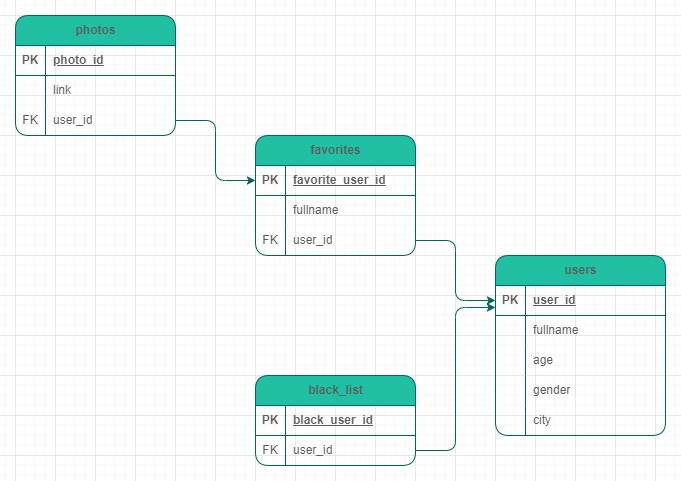
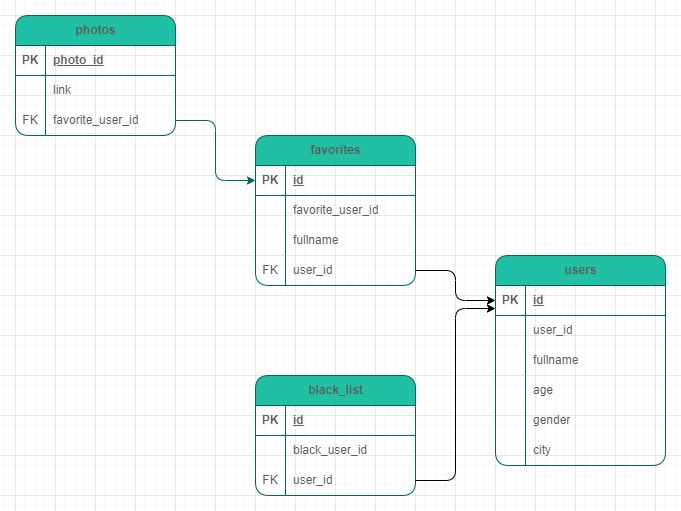
correct_db

diff --git a/bd/vkinder_bd_models.py b/bd/vkinder_bd_models.py
@@ -1,5 +1,5 @@
-from sqlalchemy import Column, String, Integer, CheckConstraint, func, ForeignKey
-from sqlalchemy.orm import declarative_base, relationship, deferred
+from sqlalchemy import Column, String, Integer, ForeignKey
+from sqlalchemy.orm import declarative_base, relationship
 
 Base = declarative_base()
 
@@ -7,52 +7,55 @@ Base = declarative_base()
 class Users(Base):
     __tablename__ = "users"
 
-    user_id = Column(Integer, primary_key=True, unique=True)
+    id = Column(Integer, primary_key=True)
+    user_id = Column(Integer, unique=True, nullable=False)
     fullname = Column(String(40), nullable=False)
-    age = deferred(Column(Integer, nullable=False))
-    gender = deferred(Column(Integer, nullable=False))  # 1 - женщина, 2 - мужчина
+    age = Column(Integer, nullable=False)
+    gender = Column(Integer, nullable=False)  # 1 - женщина, 2 - мужчина
     city = Column(String(20), nullable=False)
 
     def __str__(self):
-        return f"{self.user_id}: ({self.fullname}, {self.age}, {self.gender}, {self.city})"
+        return f"{self.id}: ({self.user_id}, {self.fullname}, {self.age}, {self.gender}, {self.city})"
 
 
 class Favorites(Base):
     __tablename__ = "favorites"
 
-    favorite_user_id = Column(Integer, primary_key=True)
+    id = Column(Integer, primary_key=True)
+    favorite_user_id = Column(Integer, nullable=False)
     fullname = Column(String(40), nullable=False)
-    user_id = Column(Integer, ForeignKey(Users.user_id), nullable=False)
+    user_id = Column(Integer, ForeignKey(Users.id), nullable=False)
 
     user = relationship(Users, backref=__tablename__)
 
     def __str__(self):
-        return f"{self.favorite_user_id}: ({self.fullname}, {self.user_id})"
+        return f"{self.id}: ({self.favorite_user_id}, {self.fullname}, {self.user_id})"
 
 
 class BlackList(Base):
     __tablename__ = "black_list"
 
-    user_id = Column(Integer, ForeignKey(Users.user_id), primary_key=True, nullable=False, unique=True)
-    black_user_id = Column(Integer)
+    id = Column(Integer, primary_key=True)
+    black_user_id = Column(Integer, nullable=False)
+    user_id = Column(Integer, ForeignKey(Users.id), nullable=False)
 
     user = relationship(Users, backref=__tablename__)
 
     def __str__(self):
-        return f"{self.blist_user_id}: {self.user_id}"
+        return f"{self.id}: ({self.black_user_id}, {self.user_id})"
 
 
 class Photos(Base):
     __tablename__ = "photos"
 
     photo_id = Column(Integer, primary_key=True)
-    link = Column(String, unique=True, nullable=False)
-    user_id = Column(Integer, ForeignKey(Favorites.favorite_user_id), nullable=False)
+    link = Column(String, nullable=False)
+    favorite_user_id = Column(Integer, ForeignKey(Favorites.id), nullable=False)
 
     favorite_user = relationship(Favorites, backref=__tablename__)
 
     def __str__(self):
-        return f"{self.photo_id}: ({self.link}, {self.user_id})"
+        return f"{self.photo_id}: ({self.link}, {self.favorite_user_id})"
 
 
 def create_table(engine):
